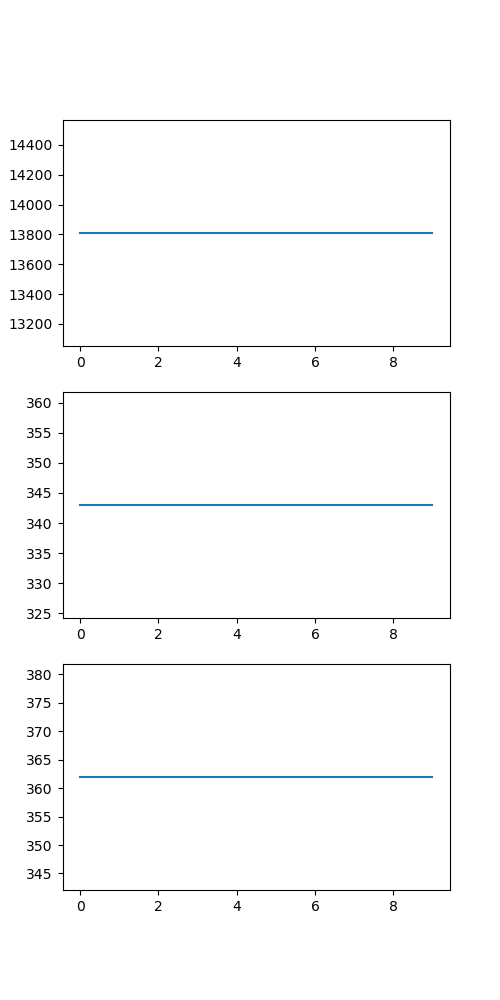
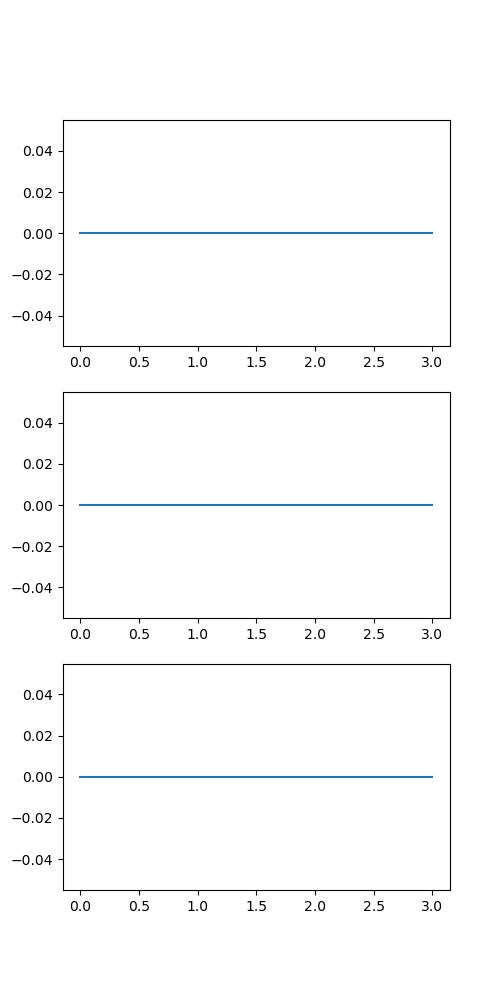
???!

diff --git a/gym_poly_reactor/envs/poly_reactor_env.py b/gym_poly_reactor/envs/poly_reactor_env.py
@@ -7,25 +7,28 @@ from gym import spaces
 from gym_poly_reactor.envs.params import *  # import parameters of the simulator
 
 # TODO: Put original authors and link
-T_SET = 90.0  # [celsius]
+
+abs_zero = 273.15
+T_SET = 90.0 + abs_zero  # [Kelvin]
+temp_range = 2.0
 
 # State spaces and initial states
 m_W_INIT, m_W_MIN, m_W_MAX = 10000, 0, np.inf  # [kg]
 m_A_INIT, m_A_MIN, m_A_MAX = 853, 0, np.inf  # [kg]
 m_P_INIT, m_P_MIN, m_P_MAX = 26.5, 0, np.inf  # [kg]
 
-T_R_INIT, T_R_MIN, T_R_MAX = 90.0, T_SET - 2.0, T_SET + 2.0  # [celsius]
-T_S_INIT, T_S_MIN, T_S_MAX = 90.0, 0, 100  # [celsius]
-T_M_INIT, T_M_MIN, T_M_MAX = 90.0, 0, 100  # [celsius]
-T_EK_INIT, T_EK_MIN, T_EK_MAX = 35.0, 0, 100  # [celsius]
-T_AWT_INIT, T_AWT_MIN, T_AWT_MAX = 35.0, 0, 100  # [celsius]
-T_adiab_INIT, T_adiab_MIN, T_adiab_MAX = 104.897, 0, 109  # [celsius]
-m_acc_F_init, m_acc_F_MIN, m_acc_F_MAX = 0, 0, 30000  # [kg]
+T_R_INIT, T_R_MIN, T_R_MAX = 90.0 + abs_zero, T_SET - temp_range, T_SET + temp_range  # [Kelvin]
+T_S_INIT, T_S_MIN, T_S_MAX = 90.0 + abs_zero, abs_zero, 100 + abs_zero  # [Kelvin]
+T_M_INIT, T_M_MIN, T_M_MAX = 90.0 + abs_zero, abs_zero, 100 + abs_zero  # [Kelvin]
+T_EK_INIT, T_EK_MIN, T_EK_MAX = 35.0 + abs_zero, abs_zero, 100 + abs_zero  # [Kelvin]
+T_AWT_INIT, T_AWT_MIN, T_AWT_MAX = 35.0 + abs_zero, abs_zero, 100 + abs_zero  # [Kelvin]
+T_adiab_INIT, T_adiab_MIN, T_adiab_MAX = 378.04682, abs_zero, 109 + abs_zero  # [Kelvin]
+m_acc_F_init, m_acc_F_MIN, m_acc_F_MAX = 300, 0, 30000  # [kg]
 
 # Action space
 m_DOT_F_MIN, m_DOT_F_MAX = 0, 30000  # [kgh^-1]
-T_IN_M_MIN, T_IN_M_MAX = 60, 100  # [celsius]
-T_IN_AWT_MIN, T_IN_AWT_MAX = 60, 100  # [celsius]
+T_IN_M_MIN, T_IN_M_MAX = 60 + abs_zero, 100 + abs_zero  # [celsius]
+T_IN_AWT_MIN, T_IN_AWT_MAX = 60 + abs_zero, 100 + abs_zero  # [celsius]
 
 
 class PolyReactor(gym.Env):
@@ -67,8 +70,9 @@ class PolyReactor(gym.Env):
 
         U = m_p / (m_a + m_p)
         m_ges = m_w + m_a + m_p
-        k_r1 = k_0 * np.exp(-E_a / (R * (T_R + abs_zero))) * (k_U1 * (1 - U) + k_U2 * U)
-        k_r2 = k_0 * np.exp(-E_a / (R * (T_EK + abs_zero))) * (k_U1 * (1 - U) + k_U2 * U)
+        k_r1 = k_0 * np.exp(-E_a / (R * (T_R))) * (k_U1 * (1 - U) + k_U2 * U)
+        k_r2 = k_0 * np.exp(-E_a / (R * (T_EK))) * (k_U1 * (1 - U) + k_U2 * U)
+        print("here")
         k_K = (m_w * k_WS + m_a * k_AS + m_p * k_PS) / (m_ges)
         m_a_r = m_a - m_a * m_AWT / m_ges
 

diff --git a/main.py b/main.py
@@ -4,6 +4,7 @@ import numpy as np
 from gym_poly_reactor.envs.poly_reactor_env import PolyReactor
 
 if __name__ == '__main__':
+    abs_zero = 273.15
     env = PolyReactor()
     s0 = env.reset()
     len_episode = 100
@@ -14,10 +15,10 @@ if __name__ == '__main__':
     step = 0
 
     # while True:
-    for _ in range(10):
+    for _ in range(4):
 
         action = env.action_space.sample()
-        action = [13808, 343, 362]
+        action = [0, 0, 0]
         next_state, _, done, _ = env.step(action)
         state_trajectory.append(next_state)
         action_trajectory.append(action)
